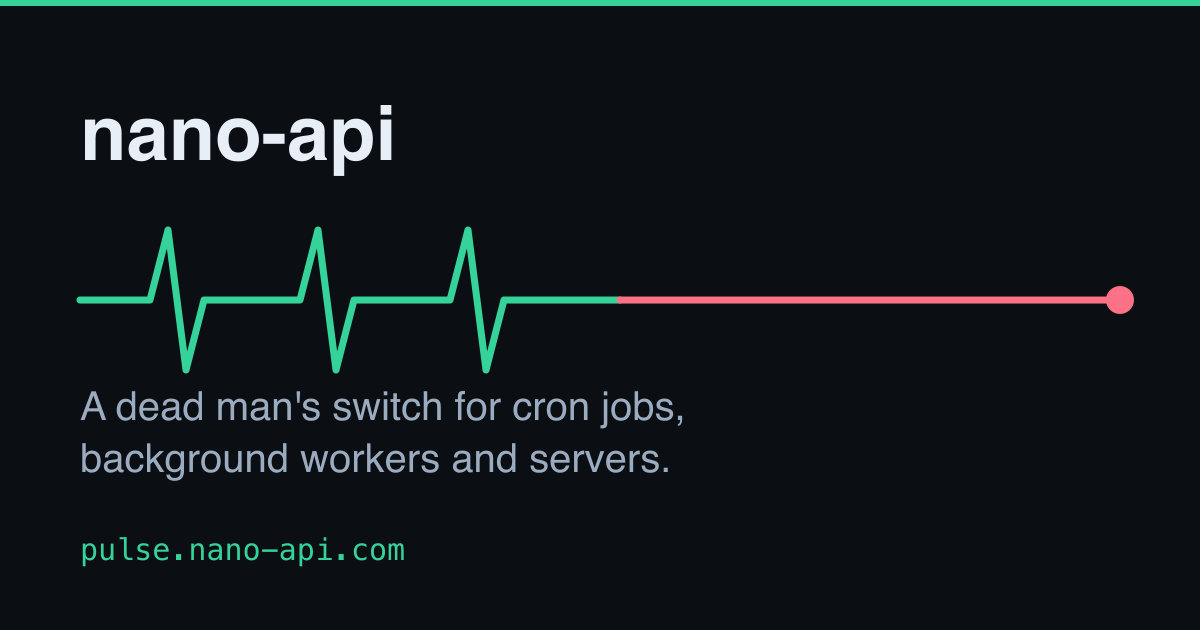
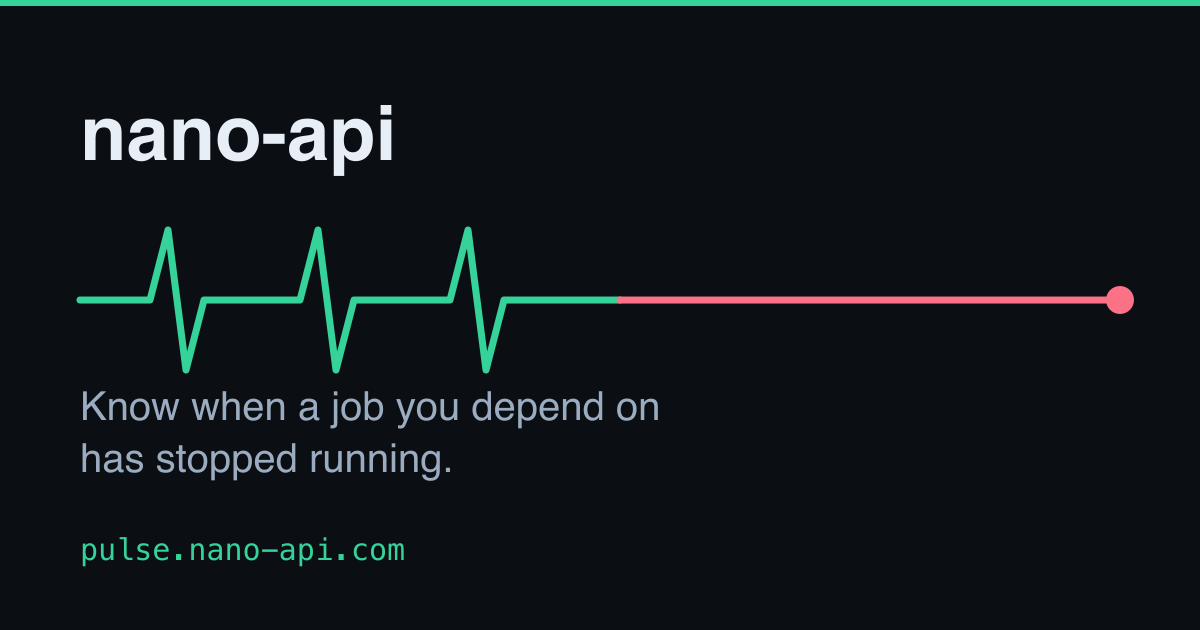
bedre formuleringer

Changed region(s): [[0.0617, 0.6032, 0.5858, 0.754]]

diff --git a/src/consts.ts b/src/consts.ts
@@ -3,7 +3,7 @@
 
 export const SITE_TITLE = "nano-api";
 export const SITE_DESCRIPTION =
-	"Small, sharp APIs that do one thing. Starting with NanoPulse: a dead man's switch for cron jobs, background workers and servers.";
+	"Small, sharp APIs that do one thing. NanoPulse tells you when a job you depend on has stopped running — a backup, an export, a queue worker, a server.";
 
 export const CONTACT_EMAIL = "hello@nano-api.com";
 export const X_URL = "https://x.com/gautes";
@@ -86,7 +86,7 @@ export const SERVICES: Service[] = [
 		status: "live",
 		host: "pulse.nano-api.com",
 		summary:
-			"Heartbeat monitoring. Your job pings on success; we shout when the ping stops arriving.",
+			"Find out when a job you depend on has stopped running. It pings us on success; we alert the moment it goes quiet.",
 		href: "/pricing/",
 	},
 	{
